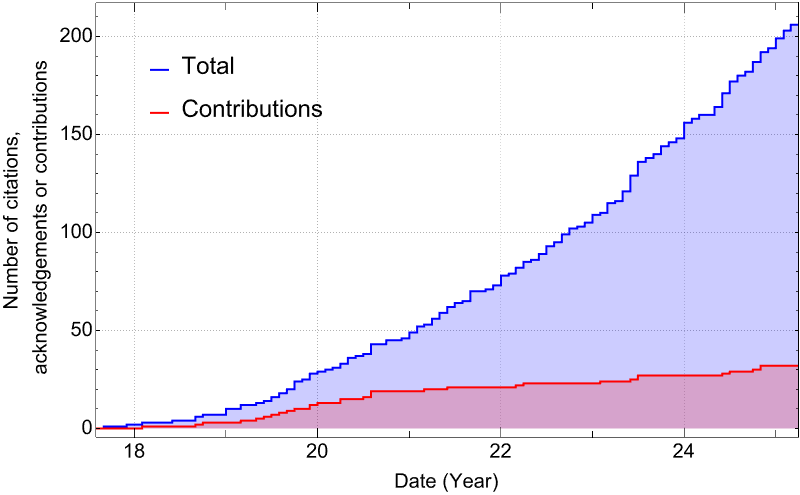
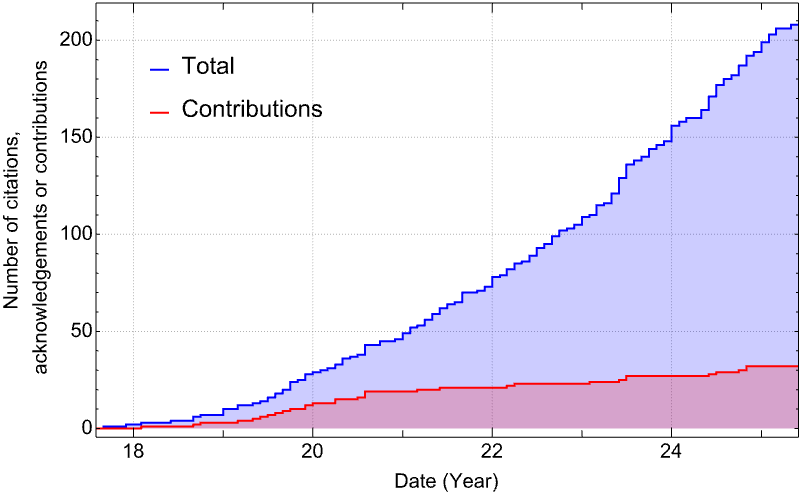
Add two papers that cite the BHPToolkit

diff --git a/users.md b/users.md
@@ -19,6 +19,10 @@ The graph below show the accumulated citations to the Toolkit over time. The blu
 
 Below is a list of research papers that have used or extended the Toolkit. Papers that have contributed code or data to the Toolkit have a (*) after them.
 
+208\. "Universal Waveforms for Extreme Mass-Ratio Inspiral", Ilan Strusberg, Barak Rom, Re'em Sari, [arXiv:2505.07941](https://arxiv.org/abs/2505.07941)
+
+207\. "Extreme mass ratio inspirals in rotating dark matter spikes", Soumodeep Mitra, Nicholas Speeney, Sumanta Chakraborty, Emanuele Berti, [arXiv:2505.04697](https://arxiv.org/abs/2505.04697)
+
 206\. "Korteweg-de Vries Integrals for Modified Black Hole Potentials: Instabilities and other Questions", Michele Lenzi, Arnau Montava Agudo, Carlos F. Sopuerta, [arXiv:2503.09918](https://arxiv.org/abs/2503.09918)
 
 205\. "Superconvergent Discontinuous Galerkin Method for the Scalar Teukolsky Equation on Hyperboloidal Domains: Efficient Waveform and Self-Force Computation", Manas Vishal, Scott E. Field, Sigal Gottlieb, Jennifer Ryan, [arXiv:2503.11523](https://arxiv.org/abs/2503.11523)
